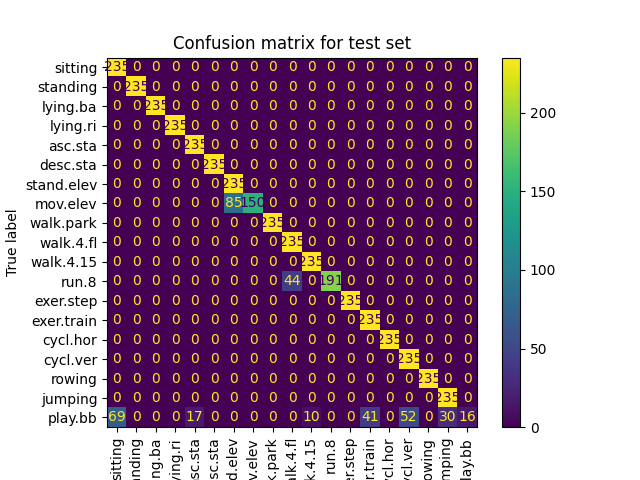
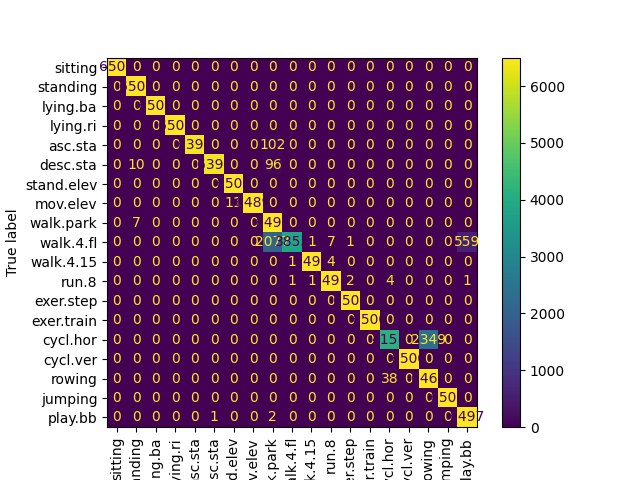
cumulative moving average

diff --git a/LAB04/main.py b/LAB04/main.py
@@ -37,22 +37,6 @@ sensNames=[
         'LL_xgyro','LL_ygyro','LL_zgyro',
         'LL_xmag', 'LL_ymag', 'LL_zmag']
 
-sensDic = {'T_xacc': 0, 'T_yacc':1, 'T_zacc':2, 
-        'T_xgyro':3,'T_ygyro':4,'T_zgyro':5,
-        'T_xmag':6, 'T_ymag':7, 'T_zmag':8,
-        'RA_xacc':9, 'RA_yacc':10, 'RA_zacc':11, 
-        'RA_xgyro':12,'RA_ygyro':13,'RA_zgyro':14,
-        'RA_xmag':15, 'RA_ymag':16, 'RA_zmag':17,
-        'LA_xacc':18, 'LA_yacc':19, 'LA_zacc':20, 
-        'LA_xgyro':21,'LA_ygyro':22,'LA_zgyro':23,
-        'LA_xmag':24, 'LA_ymag':25, 'LA_zmag':26,
-        'RL_xacc':27, 'RL_yacc':28, 'RL_zacc':29, 
-        'RL_xgyro':30,'RL_ygyro':31,'RL_zgyro':32,
-        'RL_xmag':33, 'RL_ymag':34, 'RL_zmag':35,
-        'LL_xacc':36, 'LL_yacc':37, 'LL_zacc':38, 
-        'LL_xgyro':39,'LL_ygyro':40,'LL_zgyro':41,
-        'LL_xmag':42, 'LL_ymag':43, 'LL_zmag':44}
-
 actNames=[
     'sitting',  # 1
     'standing', # 2
@@ -111,33 +95,15 @@ NtotSlices=60 #total number of slices
 slices=list(range(1,Nslices+1))# first Nslices to plot
 fs=25 # Hz, sampling frequency
 samplesPerSlice=fs*5 # samples in each slice
-########################################### Parameter settings ################################################
-nTrainSlices = 13
-n_smallVarFeatures = 19
+################################## Parameter settings #############################################
+nTrainSlices = 8
 slicesTrain = list(range(1,nTrainSlices+1)) 
 slicesTest = list(range(nTrainSlices+1, NtotSlices+1))
-nPoints = 3
-sampling = 25 * nPoints
-############################# Evaluate features with smallest variance on training set ##########################
+###################### Generate training and test set #####################################
 N_tr= nTrainSlices * NAc * 125
 X_train = np.zeros([N_tr, len(sensors)])
-iter_tr = 0
-for i in range(1, NAc+1):
-    activities = [i]
-    x_tr=myFn.generateDF(filedir,sensNamesSub,sensors, patients,activities,slicesTrain)
-    x_tr=x_tr.drop(columns=['activity'])
-    x_tr = x_tr.values
-    X_train[iter_tr:len(x_tr)+iter_tr, :] = x_tr
-    iter_tr += len(x_tr)
-
-feat = myFn.featureImportanceVar(X_train, sensNames, n_smallVarFeatures)    # return the name of the features with smallest var
-sensors = myFn.mapSensors(feat, sensDic)    # map the features names to the sensors' names
-
-###################### Generate training and test set #####################################
-N_tr= int(N_tr / 25)
-X_train = np.zeros([N_tr, len(sensors)])
 y_tr =np.zeros(N_tr)
-N_te = (NtotSlices - nTrainSlices) * NAc * 5
+N_te = (NtotSlices - nTrainSlices) * NAc * 125
 X_test = np.zeros([N_te, len(sensors)])
 y_te =np.zeros(N_te)
 iter_tr = 0
@@ -146,23 +112,20 @@ for i in range(1, NAc+1):
     activities = [i]
     # Training Set
     x_tr=myFn.generateDF(filedir,sensNamesSub,sensors, patients,activities,slicesTrain)
-    x_tr = myFn.interpolation(x_tr, nPoints)
-    x_tr = myFn.averageSampling(x_tr, sampling)
     y_tr[iter_tr:len(x_tr)+iter_tr] = i - 1
     x_tr=x_tr.drop(columns=['activity'])
+    x_tr = myFn.cumulativeMovingAverage(x_tr)
     x_tr = x_tr.values
     X_train[iter_tr:len(x_tr)+iter_tr, :] = x_tr
     iter_tr += len(x_tr)
     # Test set
     x_te=myFn.generateDF(filedir,sensNamesSub,sensors, patients,activities,slicesTest)
-    x_te=x_te.drop(columns=['activity'])
-    x_te = myFn.interpolation(x_te, nPoints)
-    x_te = myFn.averageSampling(x_te, sampling)
     y_te[iter_te:len(x_te)+iter_te] = i - 1
+    x_te=x_te.drop(columns=['activity'])
+    x_te = myFn.cumulativeMovingAverage(x_te)
     x_te = x_te.values
     X_test[iter_te:len(x_te)+iter_te, :] = x_te
     iter_te += len(x_te)
-
 ################################### Centroids evaluation ######################################
 n_sensors = len(sensors)
 centroids=np.zeros((NAc,n_sensors))# centroids for all the activities
@@ -172,7 +135,7 @@ for i in range(1,NAc+1):
     activities=[i]
     x=myFn.generateDF(filedir,sensNamesSub,sensors, patients,activities,slicesTrain)
     x=x.drop(columns=['activity'])
-    x = myFn.averageSampling(x, sampling)
+    x = myFn.cumulativeMovingAverage(x)
     centroids[i-1,:]=x.mean().values
     stdpoints[i-1]=np.sqrt(x.var().values)
 
@@ -184,8 +147,7 @@ y_hat_te = kmeans.predict(X_test)
 # Evaluate accuracy
 accuracy_tr = accuracy_score(y_hat_tr, y_tr)
 accuracy_te = accuracy_score(y_hat_te, y_te)
-print("\nNumber of used sensors: ", n_smallVarFeatures)
-print("List of used sensors:", feat)
+print("\nNumber of used sensors: ", n_sensors)
 print("Number of slices used for training:", nTrainSlices)
 print(f"Overall accuracy on train: {accuracy_tr:.3f}")
 print(f"Overall accuracy on test: {accuracy_te:.3f}")
@@ -195,7 +157,7 @@ RowsAct_tr = int(N_tr / 19)
 RowsAct_te = int(N_te / 19)
 iter_tr = 0
 iter_te = 0
-print("Accuracy for each activity:\n")
+print("\nAccuracy for each activity:\n")
 print("Activity\tTrain\tTest")
 for i in range(NAc):
     accuracyAc_tr.append(accuracy_score(y_hat_tr[iter_tr:RowsAct_tr+iter_tr], y_tr[iter_tr:RowsAct_tr+iter_tr]))
@@ -204,25 +166,22 @@ for i in range(NAc):
     iter_te += RowsAct_te
     print(f'{i+1}\t\t{accuracyAc_tr[i]:.3f}\t{accuracyAc_te[i]:.3f}\n')
 
-
-
+################################## Display confusion matrices ###################################
 conf_matr_tr = confusion_matrix(y_tr, y_hat_tr)
 cmd = ConfusionMatrixDisplay(confusion_matrix=conf_matr_tr, display_labels = actNamesShort)
 cmd.plot(xticks_rotation=90)
-plt.title("Confusion matrix for training set")
 plt.savefig(pathCharts + "ConfMatrTrain.png")
 plt.show()
 conf_matr_te = confusion_matrix(y_te, y_hat_te)
 cmd = ConfusionMatrixDisplay(confusion_matrix=conf_matr_te, display_labels = actNamesShort)
 cmd.plot(xticks_rotation=90)
-plt.title("Confusion matrix for test set")
 plt.savefig(pathCharts + "ConfMatrTest.png")
 plt.show()
 
 ############### Plot the measurements of each selected sensor for each of the activities ######################
 plotSensAct = False # set True to plot
 if plotSensAct:
-    activities=list(range(1,19)) #list of indexes of activities to plot
+    activities=list(range(1,20)) #list of indexes of activities to plot
     for i in activities:
         activities=[i]
         x=myFn.generateDF(filedir,sensNamesSub,sensors, patients,activities,slices)

diff --git a/LAB04/parm_eval.py b/LAB04/parm_eval.py
@@ -128,8 +128,8 @@ max_accuracy_te = max_accuracy_tr = 0
 cutoff_range = np.arange(0.2, 1.5, 0.1)
 sampling = 75
 
-for nTrainSlices in range(13, 14):
-    for n_smallest in range(19, 20):
+for nTrainSlices in range(8, 9):
+    for n_smallest in range(45, 46):
         sensors=list(range(45))
 ###################### Evaluate feature importance #######################################
         slicesTrain = list(range(1,nTrainSlices+1)) 
@@ -154,11 +154,12 @@ for nTrainSlices in range(13, 14):
 
         feat = myFn.featureImportanceVar(X_train, sensNames, n_smallest)
         sensors = myFn.mapSensors(feat, sensDic)
+        #sensors = [6,7,8,15,16,17,24,25,26,33,34,35,42,43,44]
         ###################### Generate training and test set #####################################
-        N_tr= nTrainSlices * NAc * 5
+        N_tr= nTrainSlices * NAc * 125
         X_train = np.zeros([N_tr, len(sensors)])
         y_tr =np.zeros(N_tr)
-        N_te = (NtotSlices - nTrainSlices) * NAc * 5
+        N_te = (NtotSlices - nTrainSlices) * NAc * 125
         X_test = np.zeros([N_te, len(sensors)])
         y_te =np.zeros(N_te)
         iter_tr = 0
@@ -167,30 +168,29 @@ for nTrainSlices in range(13, 14):
             activities = [i]
             # Training Set
             x_tr=myFn.generateDF(filedir,sensNamesSub,sensors, patients,activities,slicesTrain)
-            x_tr = myFn.interpolation(x_tr)
+            #x_tr = myFn.interpolation(x_tr)
             #x_tr = myFn.butter_lowpass_filter(x_tr, cutoff, fs, order)
-            x_tr = myFn.averageSampling(x_tr, sampling)
+            #x_tr = myFn.averageSampling(x_tr, sampling)
             y_tr[iter_tr:len(x_tr)+iter_tr] = i - 1
             x_tr=x_tr.drop(columns=['activity'])
+            x_tr = myFn.movingAverage(x_tr)
+
             x_tr = x_tr.values
             X_train[iter_tr:len(x_tr)+iter_tr, :] = x_tr
             iter_tr += len(x_tr)
             # Test set
             x_te=myFn.generateDF(filedir,sensNamesSub,sensors, patients,activities,slicesTest)
             x_te=x_te.drop(columns=['activity'])
-            x_te = myFn.interpolation(x_te)
+            #x_te = myFn.interpolation(x_te)
             #x_te = myFn.butter_lowpass_filter(x_te, cutoff, fs, order)
-            x_te = myFn.averageSampling(x_te, sampling)
+            #x_te = myFn.averageSampling(x_te, sampling)
             y_te[iter_te:len(x_te)+iter_te] = i - 1
+            x_te = myFn.movingAverage(x_te)
+
             x_te = x_te.values
             X_test[iter_te:len(x_te)+iter_te, :] = x_te
             iter_te += len(x_te)
 
-        """ X_train = pd.DataFrame(X_train)
-        X_train['y'] = y_tr
-        corr = X_train.corr()
-        corr_y = abs(corr['y'])
-        print(corr_y.sort_values(ascending=True)) """
         ########################Centroids evaluation #############################
         n_sensors = len(sensors)
         centroids=np.zeros((NAc,n_sensors))# centroids for all the activities
@@ -200,9 +200,11 @@ for nTrainSlices in range(13, 14):
             activities=[i]
             x=myFn.generateDF(filedir,sensNamesSub,sensors, patients,activities,slicesTrain)
             x=x.drop(columns=['activity'])
-            x = myFn.interpolation(x)
+            x = myFn.movingAverage(x)
+
+            #x = myFn.interpolation(x)
             #x = myFn.butter_lowpass_filter(x, cutoff, fs, order)   #0.8, 25, 2
-            x = myFn.averageSampling(x, sampling)
+            #x = myFn.averageSampling(x, sampling)
             centroids[i-1,:]=x.mean().values
             stdpoints[i-1]=np.sqrt(x.var().values)
 

diff --git a/LAB04/sub/functions.py b/LAB04/sub/functions.py
@@ -22,45 +22,12 @@ def generateDF(filedir,colnames,sensors,patients,activities,slices):
                             sort=False, copy=True)
     return x
 
-######################## Evaluate a sampling, averaging the data in between #########################
-def averageSampling(x, n_samp = 25):
-    features = x.columns
-    x = x.values
-    len_x = x.shape[0]
-    n_feat = x.shape[1]
-    new_x = np.zeros([int(len_x/n_samp), n_feat])
-    buff = 0
-    for i in range(0, new_x.shape[0]):
-        y = x[i:i+n_samp]
-        new_x[i] = x[i:i+n_samp].mean(axis=0)
-    new_x = pd.DataFrame(new_x, columns=features)
-    return new_x
+################################## Evaluate cumulative moving average CMA #############################
+def cumulativeMovingAverage(df):
+    avgDf = np.zeros([len(df), len(df.columns)])
     
-####################### Map sensor names to corresponding sensor's number ###############################
-def mapSensors(feat_importances, sensDic):
-    feat = feat_importances
-    sensors = []
-    for i in range(len(feat_importances)):
-        sensors.append(sensDic.get(feat[i]))
-    sensors.sort()
-    return sensors
-
-################ Evaluate the importance of features by picking the n with smallest variance #################
-def featureImportanceVar(X, colNames, n_smallest):
-    X = pd.DataFrame(X, columns=colNames)
-    var_X = X.var()
-    var_XSmall = var_X.nsmallest(n_smallest)
-    features = var_XSmall.index.tolist()
-    return features
-
-################################ Evaluate a linear interpolation of the data ############################
-def interpolation(df, nPoints):
-    interpDF =  np.zeros([int(nPoints*len(df)), len(df.columns)])
-    x = np.arange(len(df))
-    x_new = np.linspace(0, len(df)-1, num=int(len(df)*nPoints))
     for i in range(len(df.columns)):
-        f = interp1d(x, df.iloc[:, i])
-        y = f(x_new)
-        interpDF[:, i] = y
-    interpDF = pd.DataFrame(interpDF, columns=df.columns)
-    return interpDF
+        x = df.iloc[:, i]
+        avgDf[:, i] = x.expanding().mean()
+    avgDf = pd.DataFrame(avgDf, columns=df.columns)
+    return avgDf
